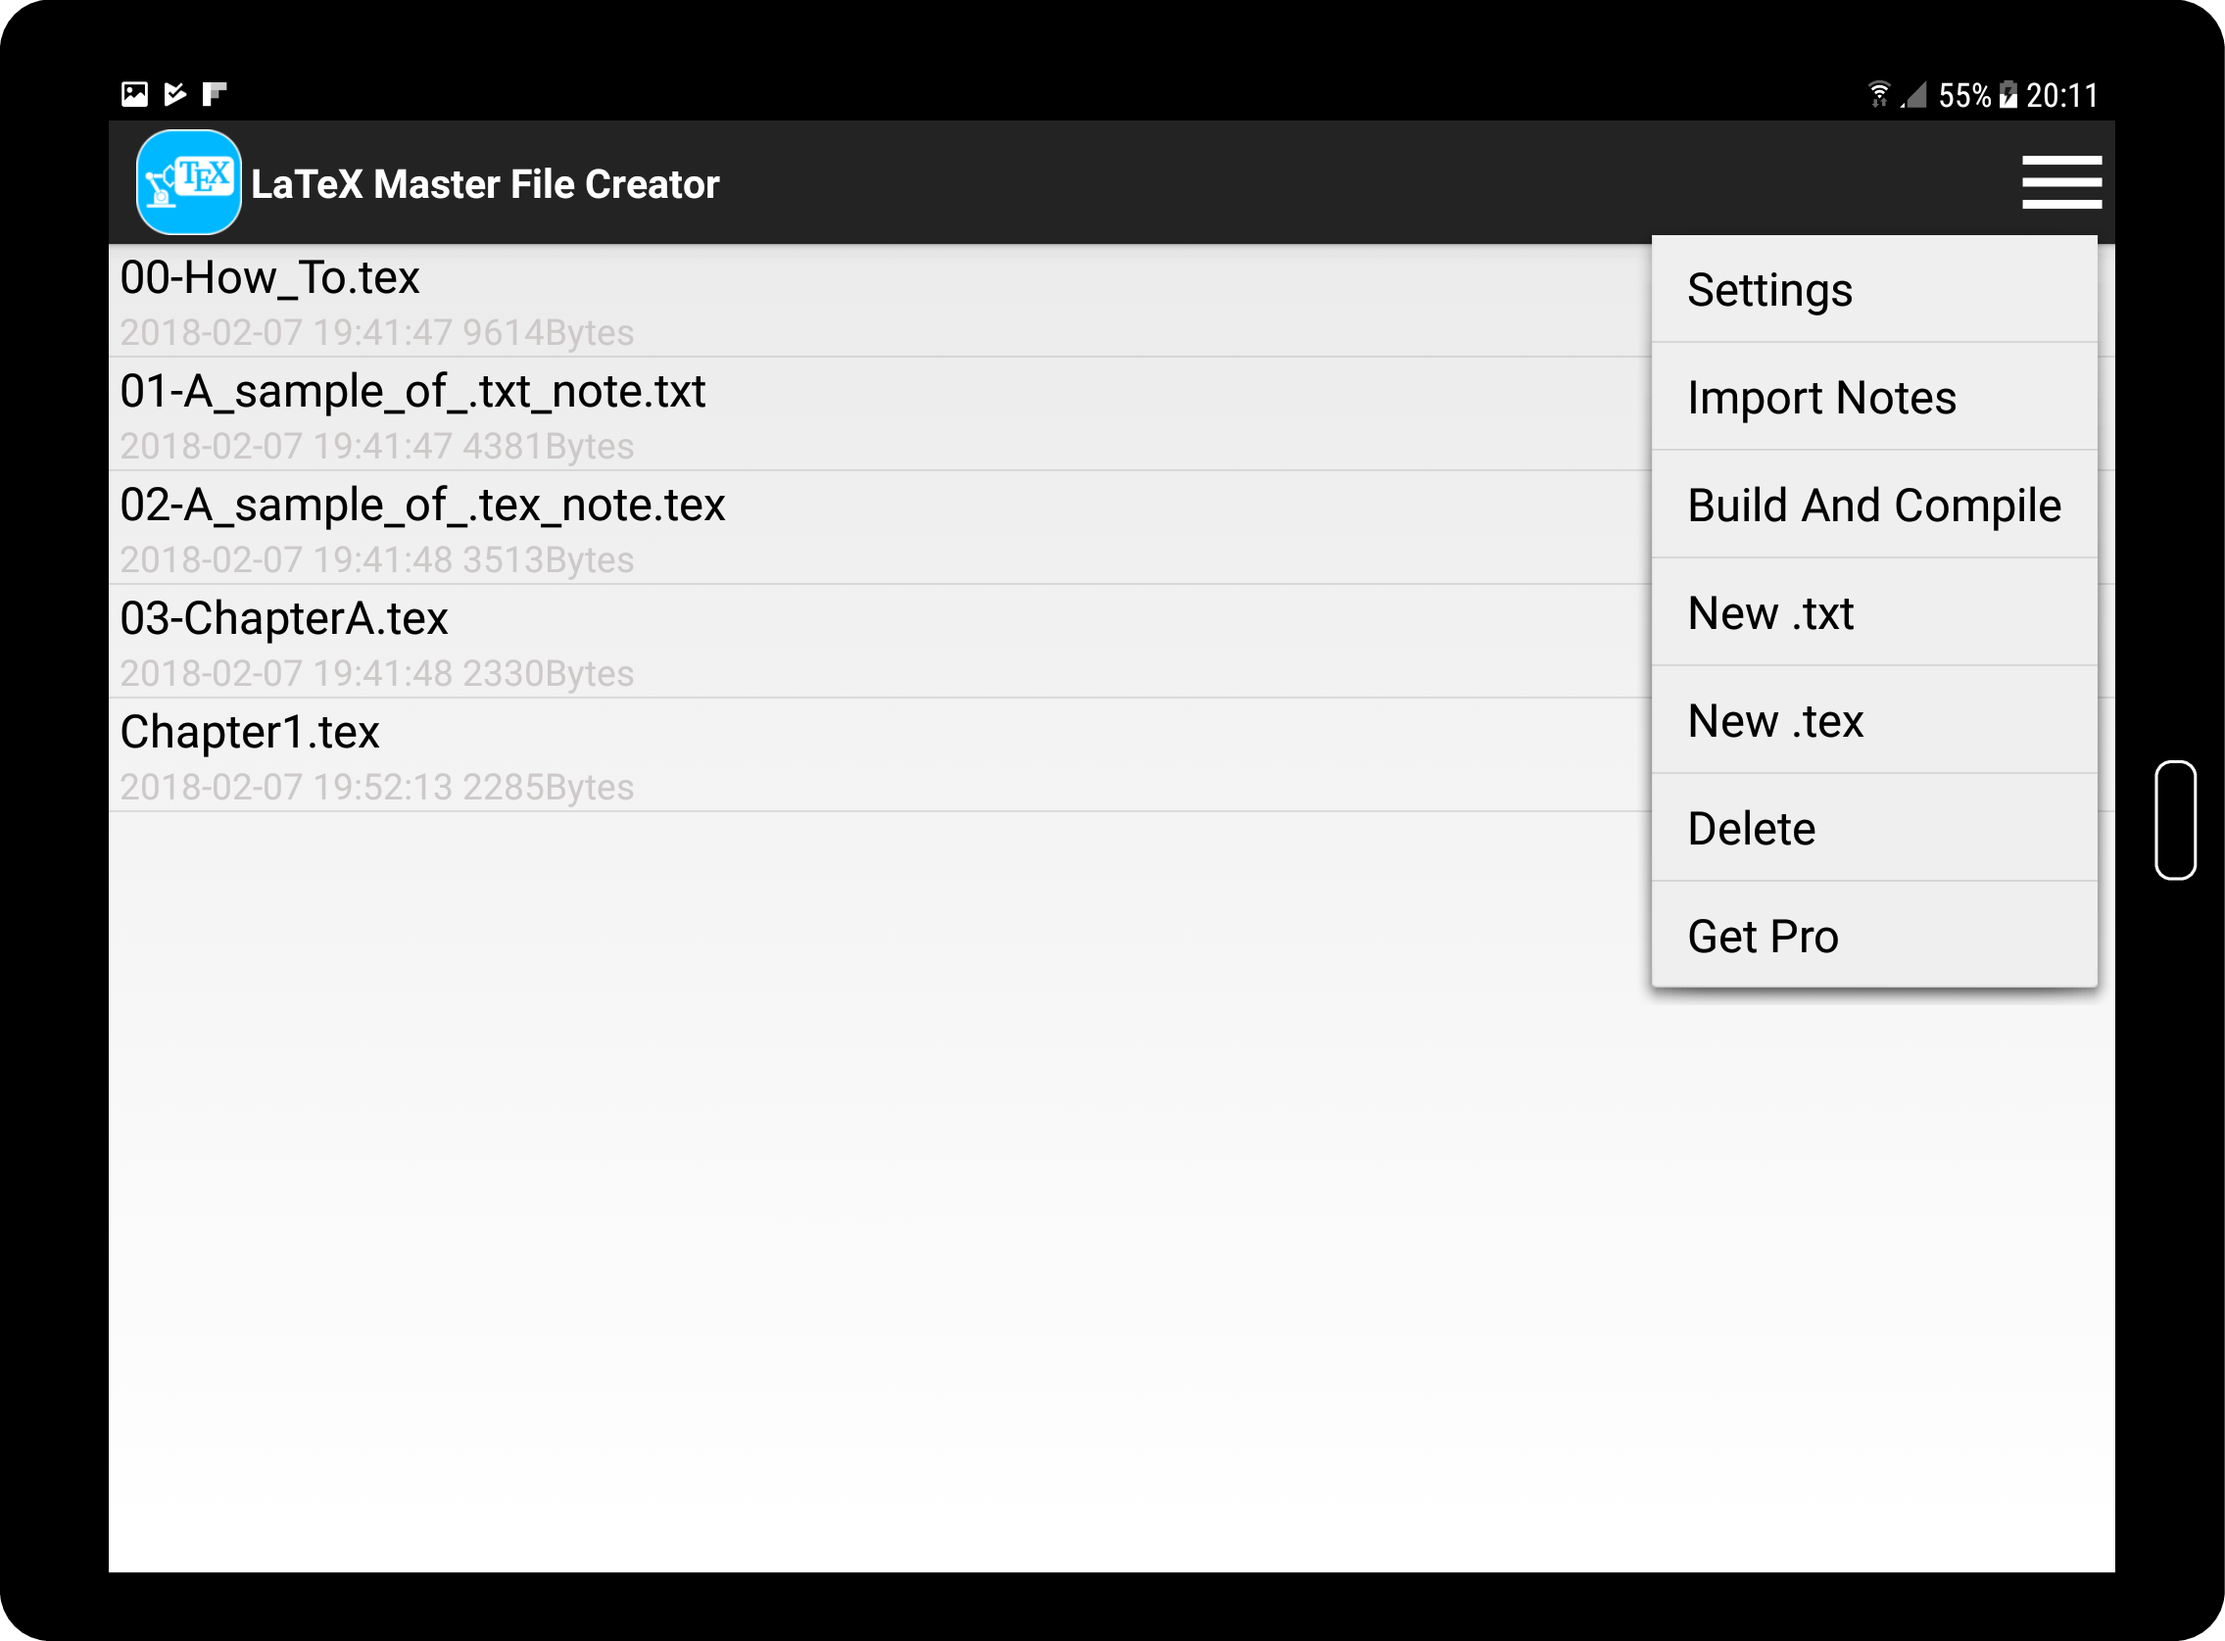
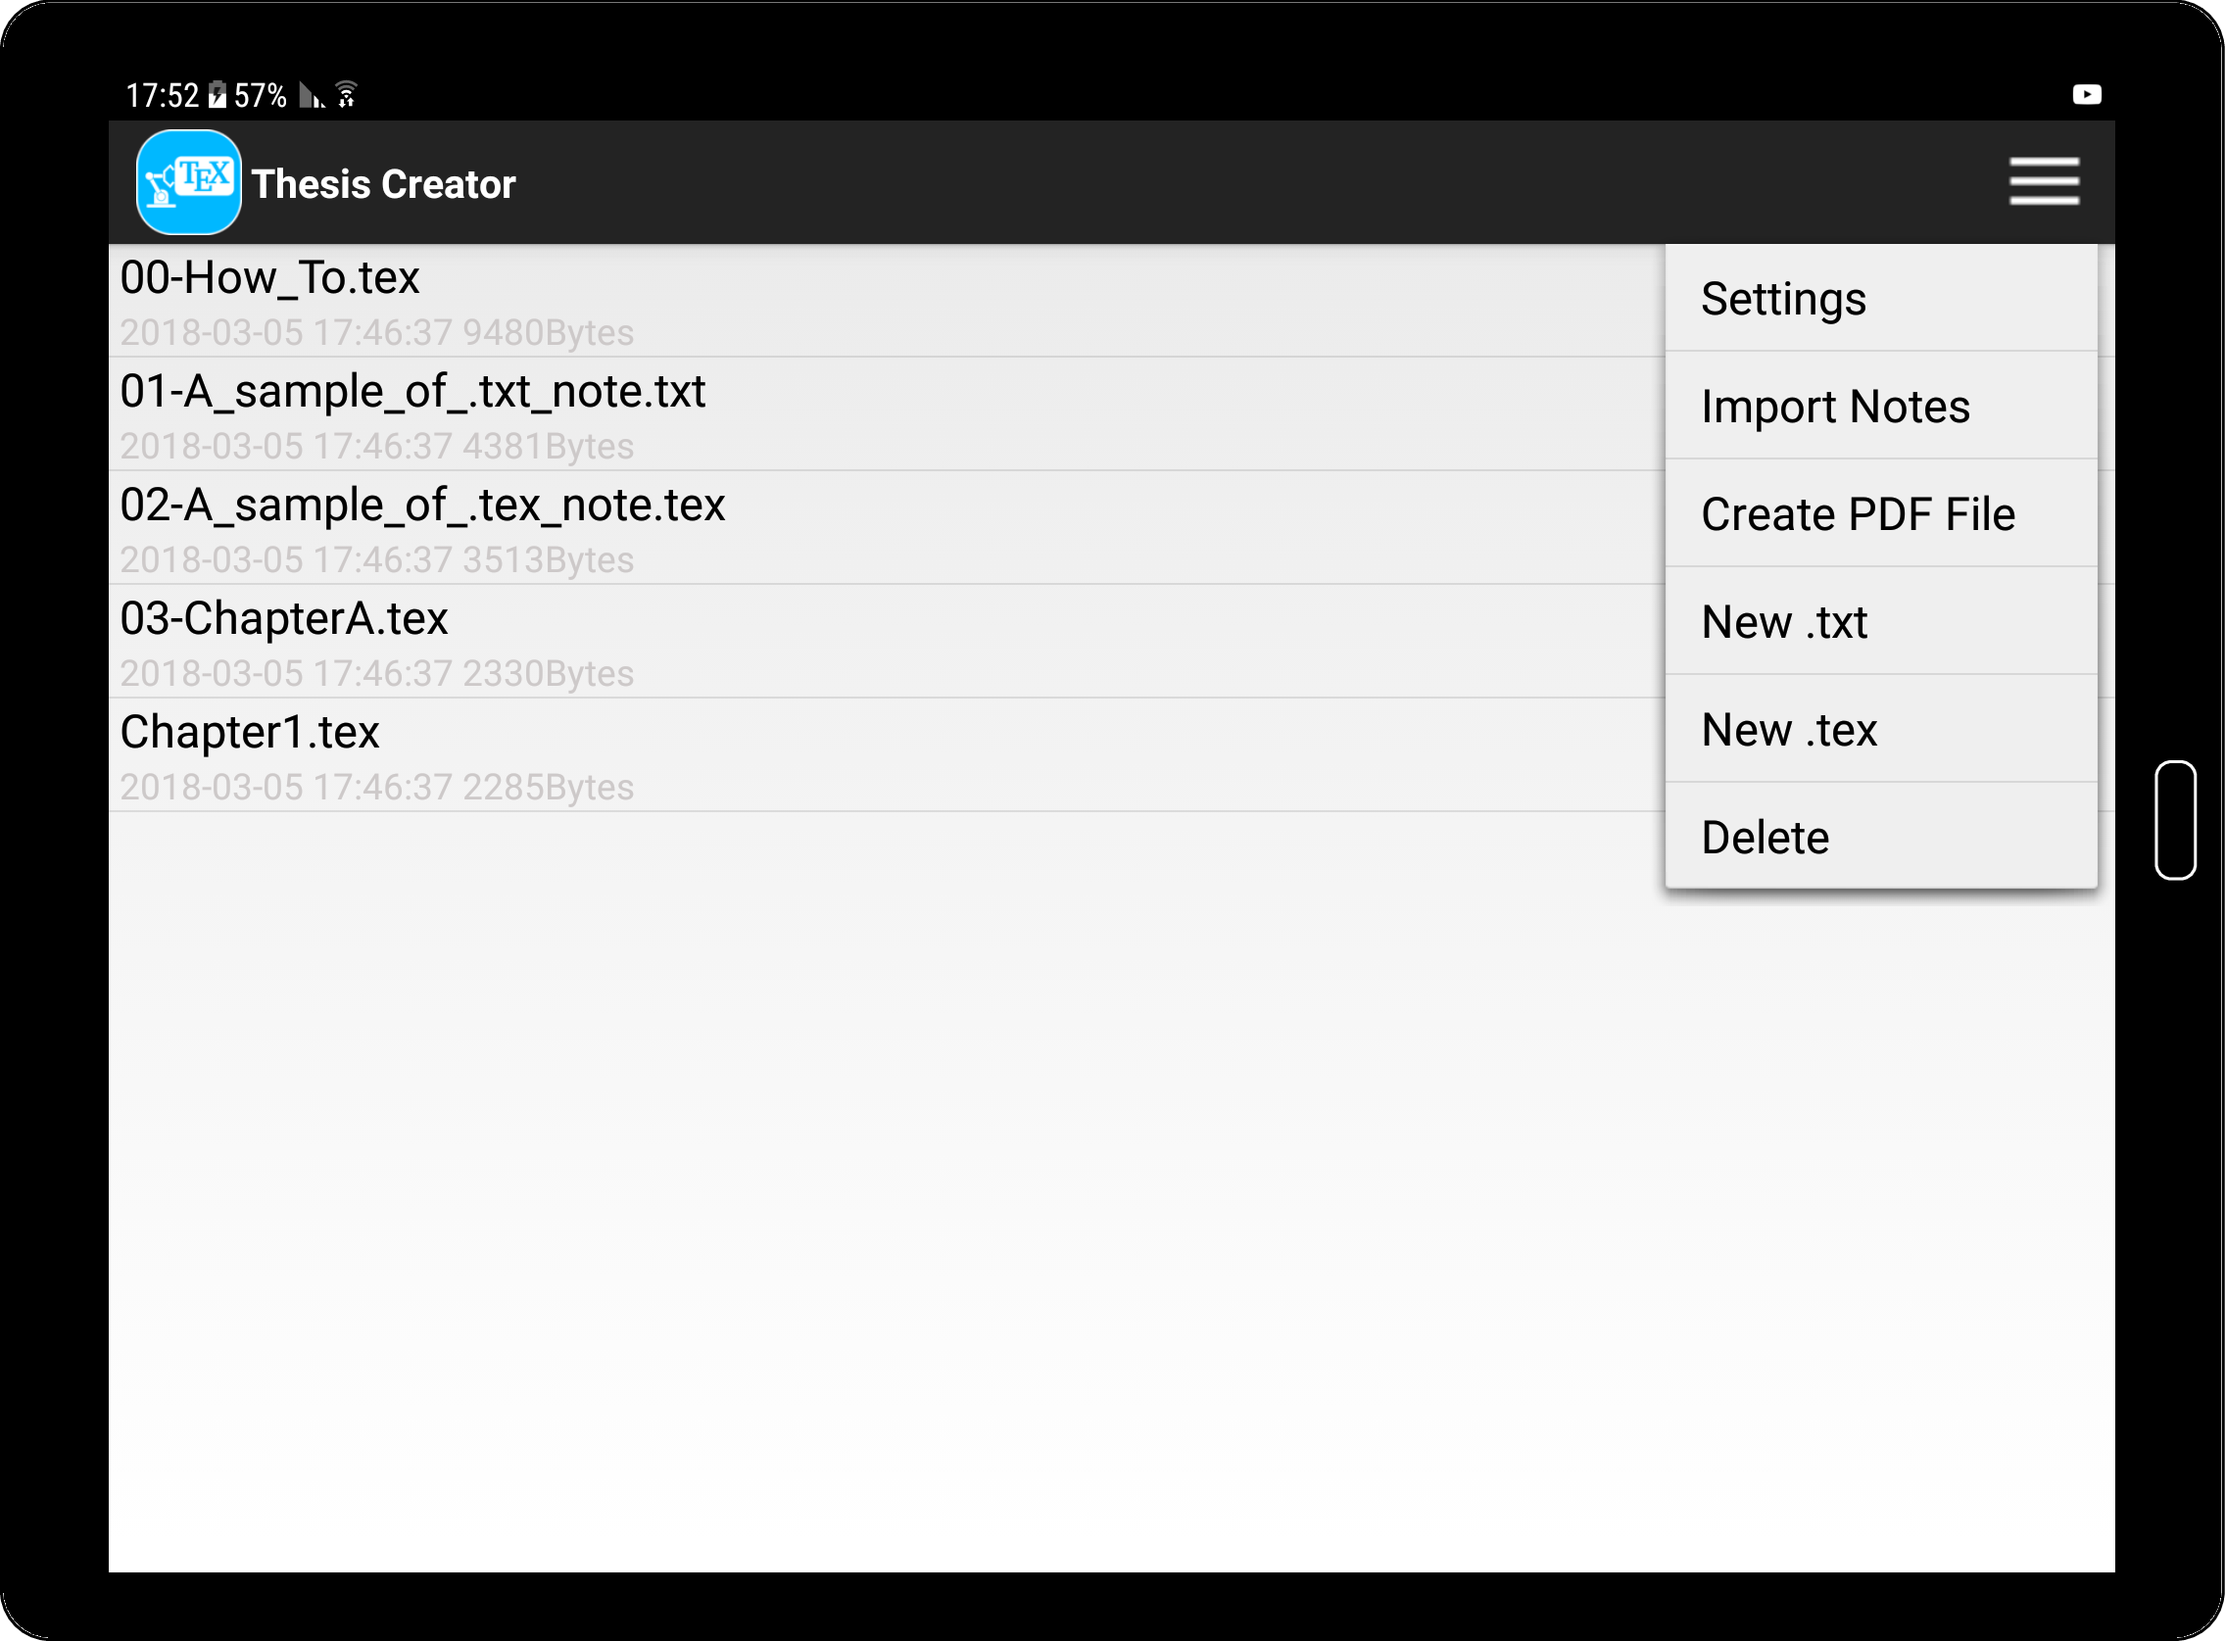
Version 1.17 Added PDF file generation Restyled layout Changed APP name

diff --git a/index.html b/index.html
@@ -2,7 +2,7 @@
 <html lang="en-us">
   <head>
     <meta charset="UTF-8">
-    <title>LaTeX Master File Creator</title>
+    <title>Thesis Creator</title>
     <meta name="viewport" content="width=device-width, initial-scale=1">
     <meta name="theme-color" content="#157878">
     <link rel="stylesheet" href="css/normalize.css">
@@ -22,9 +22,8 @@
   <body>
     <!--SECTION: PAGE-HEADER -->
     <section class="page-header">
-      <h1 class="project-name">LaTeX Master File Creator</h1>
-      <h2 class="project-tagline">Automatic generation of compilable LaTeX master files in Android</h2>
-  <img src="./images/app_notes200x200.png" alt="myAppIcon">
+      <h1 class="project-name">Thesis Creator   <img src="./images/app_notes200x200.png"  height="10%" width="10%" alt="myAppIcon"></h1>
+      <h2 class="project-tagline">Get automatically structured PDF files by taking advantage of LaTeX</h2>
     </section>
     <!--SECTION: MAIN CONTENT -->
     <section class="main-content">
@@ -32,7 +31,7 @@
       <!-- -------------------------------------------------------- -->
 <!------------------------------------------------------------------------------------>      
       <h1>Description</h1>
-      <p><strong>LaTeX Master File Creator</strong> is an <strong>Android App</strong> that allows to manage .tex files and plain text notes by choosing, through a simple UI, the items to include in an automatically generated LaTeX master file with a predefined style and obtain a .pdf file directly on your Android device.</p>
+      <p><strong>Thesis Creator</strong> is an <strong>Android App</strong> that allows to manage .tex files and plain text notes by choosing, through a simple UI, the items to include in an automatically generated LaTeX master file with a predefined style and obtain a structured PDF file directly on your Android device.  </p>
 <p> <a href='https://play.google.com/store/apps/details?id=com.ariang.android.txts2tex&pcampaignid=MKT-Other-global-all-co-prtnr-py-PartBadge-Mar2515-1'><img  alt='Get it on Google Play' src="./images/google-play-badge.png"/></a></p>
        
      <h1>Main Activity</h1>   
@@ -45,21 +44,21 @@
 </figure>  
 <!------------------------------------------------------------------------------------>      
    <h2>User Defined Settings</h2>
-   <p>By clicking on <code>Settings</code> you can modify the default <code>Filename</code> of the LaTeX master file and its document properties (<code>Title</code>, <code>Author</code>, <code>Subject</code> and <code>Keywords</code>).</p>
+   <p>By clicking on <code>Settings</code> you can modify the default <code>Filename</code> and its document properties (<code>Title</code>, <code>Author</code>, <code>Subject</code> and <code>Keywords</code>).</p>
 <!------------------------------------------------------------------------------------> 
    <h2>Import Notes</h2>
    <p>By clicking on <code>Import notes</code> you can import .txt and/or .tex files from the directory:</p>  
    <code>/sdcard/Txt2TexINPUT/</code>
 <!------------------------------------------------------------------------------------>  
-<h2>Build And Compile</h2>
-<p>From <code>Build And Compile</code> you get the list of all items, in which, as shown in fig.<a 
-href="#x1-3001r4">2<!--tex4ht:ref: fig:IssueZeroList --></a>, you can select them and through the button <code>Build and Compile LaTeX Master File With Selected Items</code> create the output directory:</p> 
+<h2>Create PDF File</h2>
+<p>From <code>Create PDF File</code> you get the list of all items, in which, as shown in fig.<a 
+href="#x1-3001r4">2<!--tex4ht:ref: fig:IssueZeroList --></a>, you can select them and through the button <code>Create PDF File With Selected Items</code> create the output directory:</p> 
 <code>/sdcard/Txt2TexOUTPUT/FilenameYYYYMMdd_hhmmss/</code> 
-<p>with an automatically generated LaTeX master file (look at <a href="#myoutput">Outputs</a> for more details).
+<p>with automatically generated LaTeX master and pdf files (look at <a href="#myoutput">Outputs</a> for more details).
 <figure>
    <a id="x1-3001r4">
-   <img src="./images/buildandcompile.png" alt="List of topics">
-   <figcaption>Fig.2: Build and Compile</figcaption>
+   <img src="./images/createpdf.png" alt="List of topics">
+   <figcaption>Fig.2: Create PDF File</figcaption>
   </a>
 </figure> 
 <!------------------------------------------------------------------------------------> 

diff --git a/css/cayman.css b/css/cayman.css
@@ -53,9 +53,10 @@ a {
 .page-header {
   color: #fff;
   text-align: center;
-  background-color: #00b8ff;/*titcol*/
+  background-color: #000000; /* #00b8ff;*//*titcol*/
   border-radius: 0.5rem;
-  margin:10px; }
+  margin-bottom: 10px;
+  }
   @media screen and (min-width: 64em) {
     .page-header {
       padding: 5rem 6rem; } }
